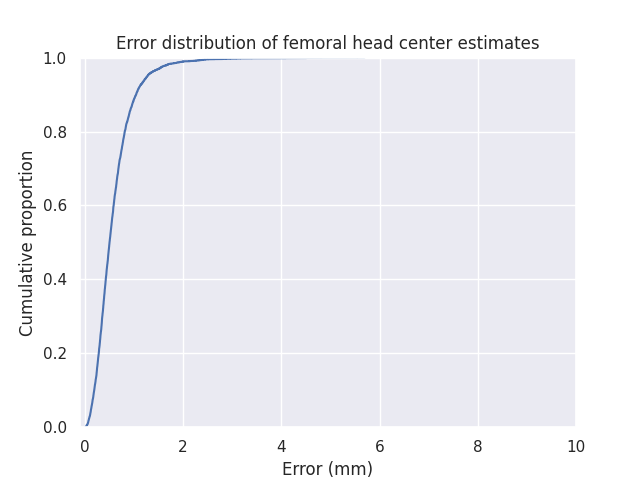
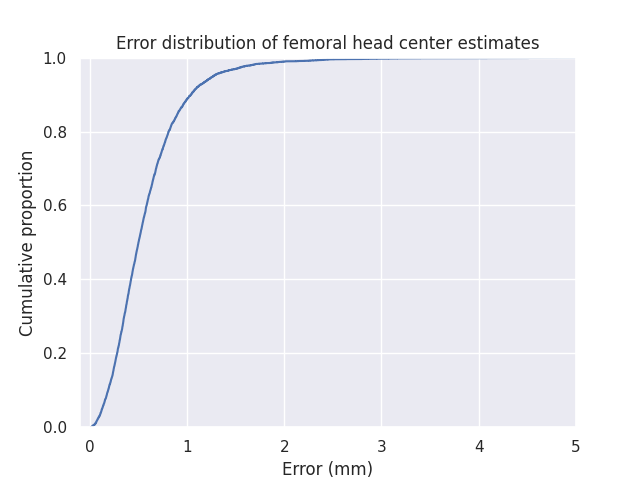
Update hip detection statistics.

diff --git a/code-for-training/detection/collect-stats-202609.py b/code-for-training/detection/collect-stats-202609.py
@@ -1,0 +1,142 @@
+"""
+Compare YOLOLite hip ROI detections with the BoneFinder-based ROIs.
+"""
+# SPDX-License-Identifier: GPL-3.0-or-later
+# SPDX-FileCopyrightText: Copyright (C) 2026 Gijs van Tulder / TU Delft
+
+import json
+import glob
+import os.path
+import numpy as np
+import tqdm
+import pandas
+import seaborn
+import matplotlib.pyplot as plt
+
+bonefinder_gt_path = 'data-for-yolo/stats/test'
+yolo_pred_path = 'YoloLite-Official-Repo/runs/onnx_infer/decoded/3/json'
+
+STANDARD_FEMORAL_HEAD_DIAMETER = 55
+
+bonefinder_gt = glob.glob(f'{bonefinder_gt_path}/*.json')
+predictions = glob.glob(f'{yolo_pred_path}/*.json')
+
+results = []
+
+for gt_filename in tqdm.tqdm(bonefinder_gt):
+    scan_basename = os.path.basename(gt_filename)
+    if scan_basename.endswith('.left.json'):
+        side = 'left'
+        class_id = 0
+    else:
+        assert scan_basename.endswith('.right.json')
+        side = 'right'
+        class_id = 1
+    image_name = scan_basename.replace(f'.{side}.json', '')
+    pred_filename = os.path.join(yolo_pred_path, f'{image_name}.json')
+    if os.path.exists(pred_filename):
+        with open(gt_filename, 'r') as f:
+            gt = json.load(f)
+        with open(pred_filename, 'r') as f:
+            pred = json.load(f)
+        # print(image_name, pred_filename)
+        # print(gt)
+        # print(pred)
+
+        # take first prediction (best score)
+        detection = None
+        for det in pred['detections']:
+            if det['class_id'] == class_id:
+                detection = det
+                break
+
+        if detection is None:
+            results.append({'scan': image_name, 'side': side})
+            # print('NOT FOUND')
+            continue
+
+        bbox = np.array(detection['bbox_xyxy'])
+
+        # compute estimated pixel spacing
+        gt_pixel_spacing = np.mean(gt['input_pixel_spacing'])
+        pred_pixel_spacing = \
+            STANDARD_FEMORAL_HEAD_DIAMETER / np.mean(np.abs(bbox[[0, 1]] - bbox[[2, 3]]))
+        # computed on a standard 0.2mm spacing -> map back to original input spacing
+        resampled_pixel_spacing = np.mean(gt['pixel_spacing'])
+        pred_pixel_spacing *= np.mean(gt['input_pixel_spacing']) / resampled_pixel_spacing
+        # print(f'PIXEL SPACING: gt {gt_pixel_spacing:0.3f} pred {pred_pixel_spacing:0.3f}')
+
+        # compute center of bbox / femoral head in mm
+        gt_center_x = gt['femoral_head_circle']['xc'] * resampled_pixel_spacing
+        gt_center_y = gt['femoral_head_circle']['yc'] * resampled_pixel_spacing
+        pred_center_x = np.mean(bbox[[0, 2]]) * resampled_pixel_spacing
+        pred_center_y = np.mean(bbox[[1, 3]]) * resampled_pixel_spacing
+        center_dist = np.linalg.norm(np.array([gt_center_x, gt_center_y]) - np.array([pred_center_x, pred_center_y]))
+        # print(f'CENTER: gt ({gt_center_x:0.1f},{gt_center_y:0.1f}) pred ({pred_center_x:0.1f},{pred_center_y:0.1f}) dist {center_dist:0.1f} mm')
+
+        results.append({
+            'scan': image_name,
+            'side': side,
+            'gt_pixel_spacing': gt_pixel_spacing,
+            'pred_pixel_spacing': pred_pixel_spacing,
+            'gt_center_x': gt_center_x,
+            'gt_center_y': gt_center_y,
+            'pred_center_x': pred_center_x,
+            'pred_center_y': pred_center_y,
+            'dist_center': center_dist,
+        })
+
+df = pandas.DataFrame(results)
+
+def scan_to_dataset(scan):
+    for d in ['FORCE', 'OAI', 'MOST', 'Chingford', 'JoCo', 'RS1', 'RS2', 'RS3', 'SF']:
+        if d in scan:
+            return d
+    if '_T00_AP' in scan:
+        return 'CHECK'
+    raise Exception(f'unknown dataset {scan}')
+
+df['dataset'] = [scan_to_dataset(scan) for scan in df['scan']]
+
+seaborn.set_theme()
+
+# femoral head center estimates
+seaborn.ecdfplot(df, x='dist_center')
+plt.title('Error distribution of femoral head center estimates')
+plt.xlabel('Error (mm)')
+plt.ylabel('Cumulative proportion')
+plt.xlim(-0.1, 5)
+plt.savefig('femoral-head-errors-202609.png')
+plt.savefig('femoral-head-errors-202609.pdf')
+plt.close()
+
+# pixel spacing estimates
+seaborn.scatterplot(df, x='gt_pixel_spacing', y='pred_pixel_spacing', alpha=0.2)
+plt.plot([0.03, 0.35], [0.03, 0.35], '-', linewidth=0.5)
+plt.title('Estimated vs true pixel spacing')
+plt.xlabel('True pixel spacing (mm/pixel)')
+plt.ylabel('Estimated pixel spacing (mm/pixel)')
+plt.savefig('pixel-spacing-estimate-errors-202609.png')
+plt.savefig('pixel-spacing-estimate-errors-202609.pdf')
+plt.close()
+
+
+
+df_copy = df.copy()
+df_copy['missing'] = ['missing' if np.isnan(d) else '' for d in df['dist_center']]
+print(pandas.pivot_table(
+    df_copy,
+    values=['scan'],
+    columns=['missing'],
+    aggfunc='count',
+    index=['dataset'],
+    fill_value='',
+))
+
+print(pandas.pivot_table(
+    df,
+    values=['dist_center'],
+    aggfunc=['mean', 'std'],
+    index=['dataset'],
+))
+
